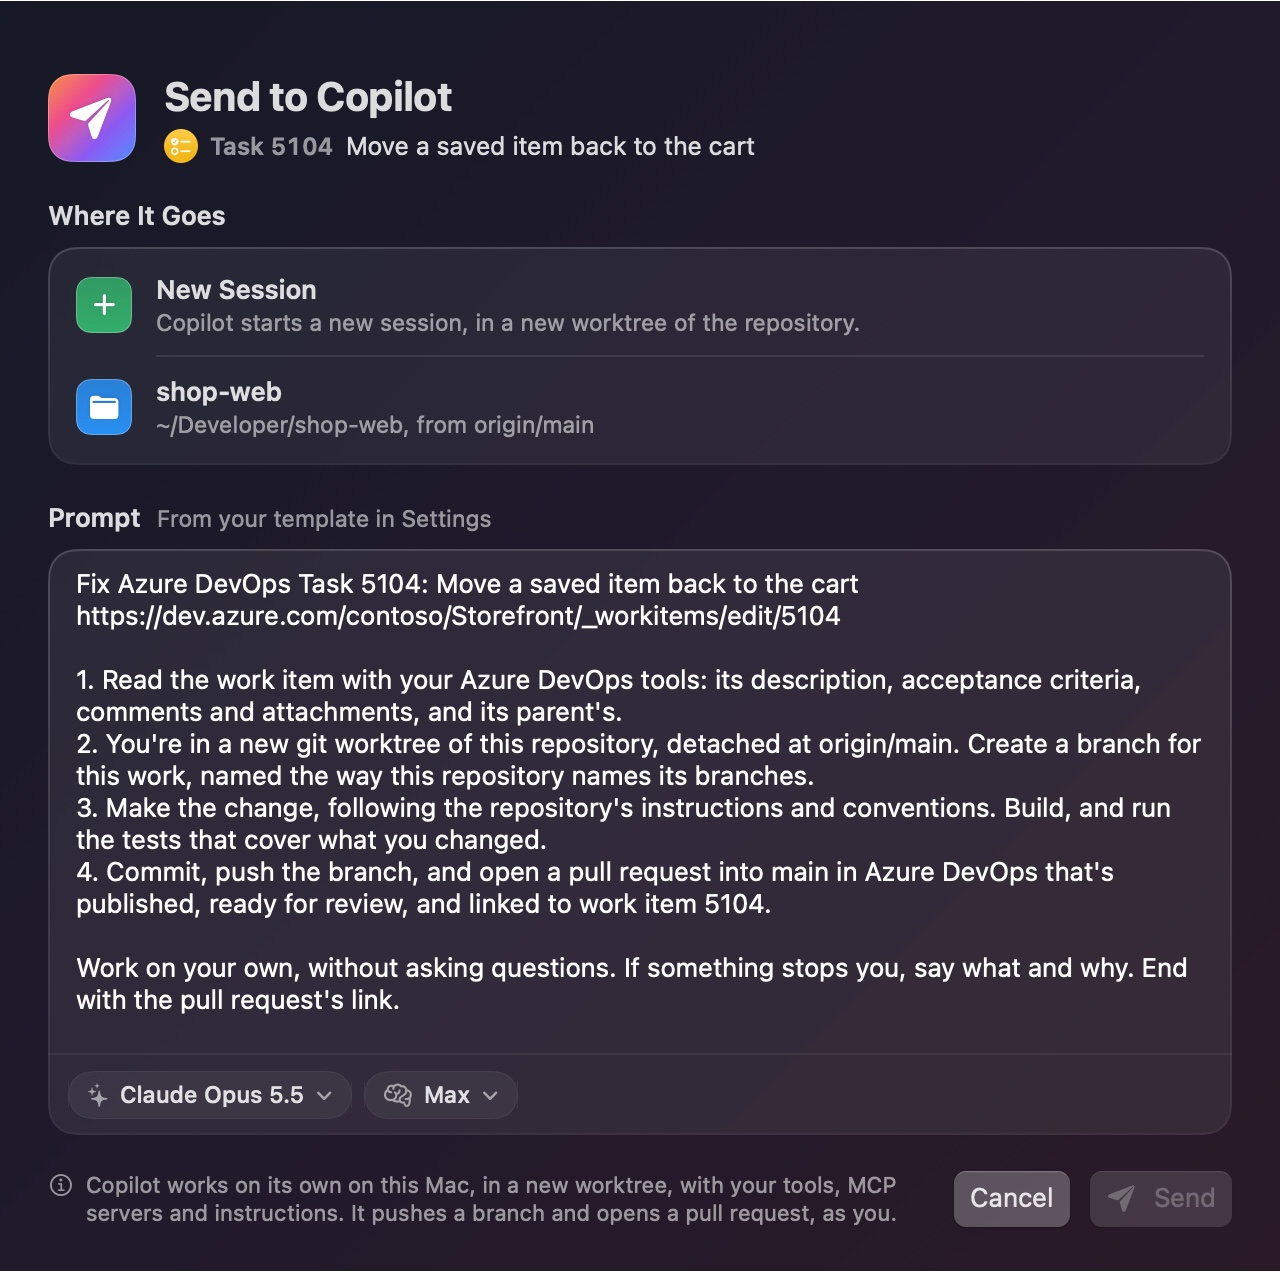
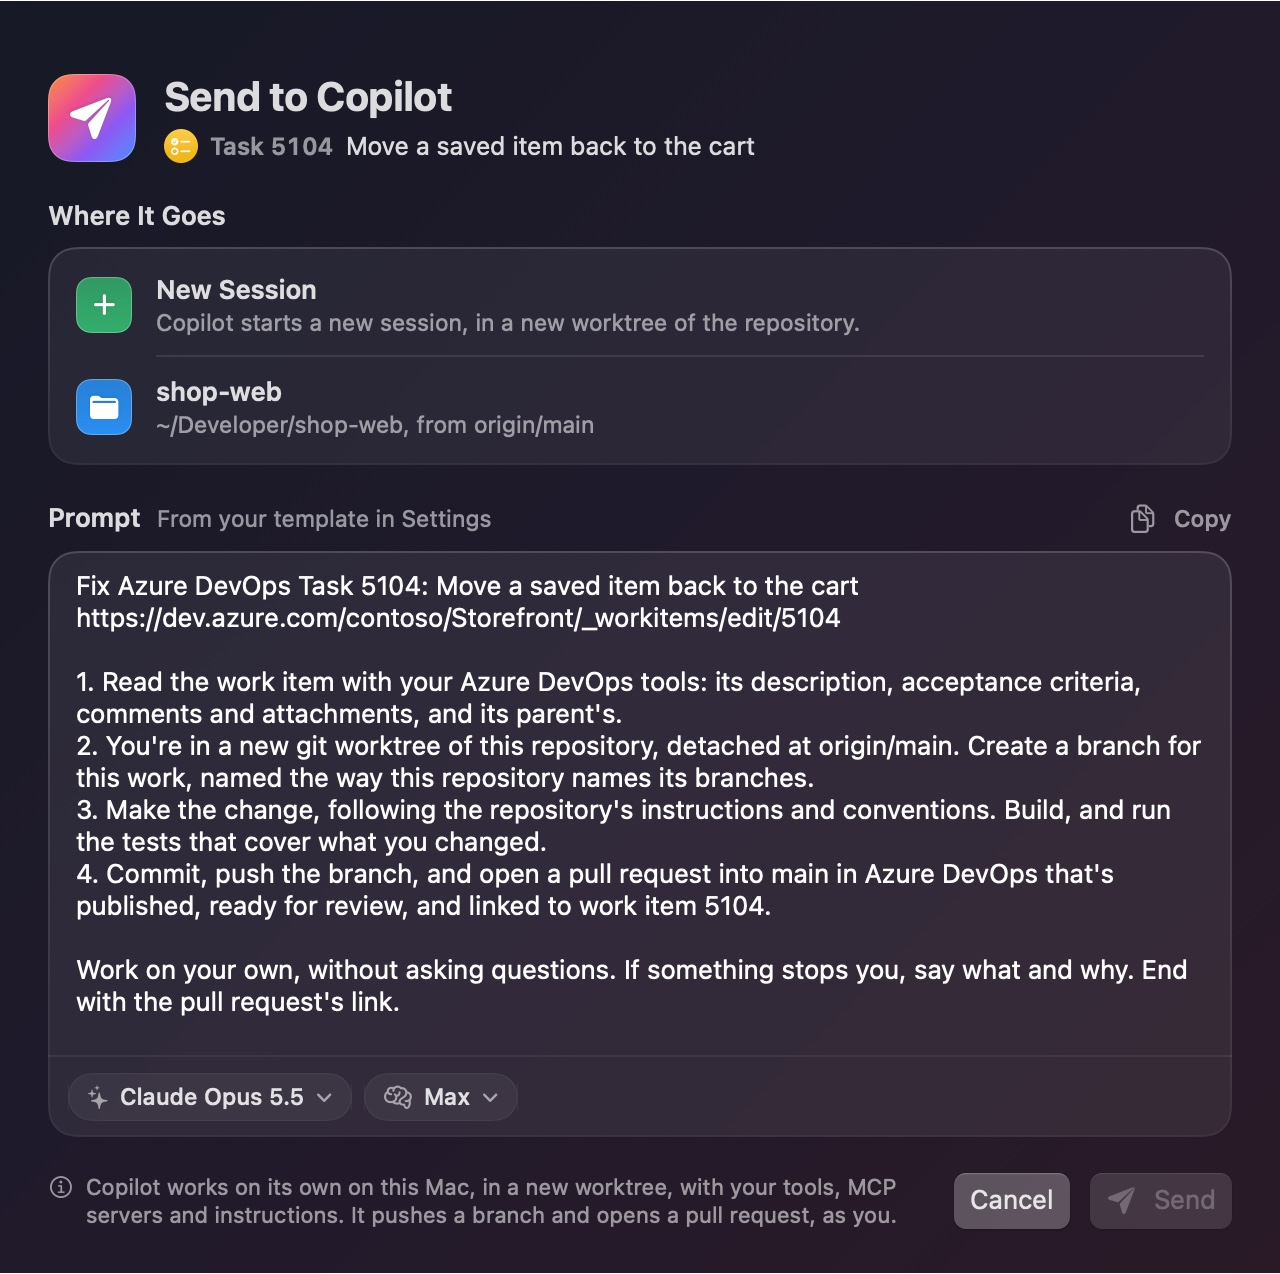
Copy the prompt from the Send to Copilot window
The window had no way to copy its prompt: only Open in Copilot put it on
the clipboard, as it opened one of the Copilot app's sessions. Copy,
above the prompt, puts it there as it stands, with your changes,
whatever's chosen under Where It Goes, and says Copied for a moment, or
until you change the prompt. It's as wide either way, and Reset appears
beside it once you change the prompt, so nothing moves.

It only copies: it sends nothing, so it works in the demo and while Send
Work to Copilot is off, and it takes none of the comments the prompt
quotes off Needs You, which stays with sending (CommentHandOff).

The README's pictures of the window, and its tour, which opens it, show
Copy.

diff --git a/Sources/AzureDevOpsUI/Views/CopilotComposerStyle.swift b/Sources/AzureDevOpsUI/Views/CopilotComposerStyle.swift
@@ -1,10 +1,11 @@
+import AppKit
 import BriefBarCore
 import BriefBarUI
 import CopilotTasks
 import SwiftUI
 
 // The pieces of the window that sends work to Copilot, in BriefBar's look: a tile of color for each thing, as the window's
-// sidebar has for its pages, rows that open a menu, choices side by side, and capsules on the prompt.
+// sidebar has for its pages, rows that open a menu, choices side by side, capsules on the prompt, and Copy above it.
 
 extension PullRequestAction {
     /// Its symbol, on the window's tile.
@@ -275,6 +276,54 @@ struct ComposerCapsuleMenu<Items: View>: View {
         .menuIndicator(.hidden)
         .fixedSize()
         .onHover { isHovered = $0 }
+    }
+}
+
+/// Copies the prompt as it stands, your changes included, and says so for a moment. It only copies, so it's there
+/// whichever session and way you choose, in the demo too: it sends nothing, and takes none of the comments the prompt
+/// quotes off Needs You.
+struct ComposerCopyButton: View {
+    let text: String
+
+    /// What it copied last, while it says so: once you change the prompt, it's Copy again.
+    @LocalState private var copied: String?
+    /// How many times it copied, so that each time says so for as long.
+    @LocalState private var copies = 0
+
+    var body: some View {
+        let isCopied = copied == text
+        Button(action: copy) {
+            // As wide either way, so Reset beside it never moves.
+            ZStack(alignment: .trailing) {
+                Label("Copied", systemImage: "checkmark")
+                    .opacity(isCopied ? 1 : 0)
+                Label("Copy", systemImage: "doc.on.doc")
+                    .opacity(isCopied ? 0 : 1)
+            }
+            .labelStyle(.titleAndIcon)
+            .animation(.easeOut(duration: 0.15), value: isCopied)
+        }
+        .buttonStyle(.borderless)
+        .font(size: 11.5, weight: .medium)
+        .disabled(text.trimmingCharacters(in: .whitespacesAndNewlines).isEmpty)
+        .help("Copy the prompt as it stands, to paste it where you like")
+        .accessibilityLabel("Copy Prompt")
+        .task(id: copies) {
+            guard copies > 0 else { return }
+            do {
+                try await Task.sleep(for: .seconds(2))
+                copied = nil
+            } catch {}
+        }
+    }
+
+    private func copy() {
+        // In place of everything there, whatever its type, so nothing you copied before is pasted instead.
+        NSPasteboard.general.clearContents()
+        NSPasteboard.general.setString(text, forType: .string)
+        copied = text
+        copies += 1
+        AccessibilityNotification.Announcement("Copied the prompt").post()
     }
 }
 

diff --git a/Sources/AzureDevOpsUI/Views/CopilotComposer.swift b/Sources/AzureDevOpsUI/Views/CopilotComposer.swift
@@ -495,7 +495,7 @@ struct CopilotComposerView: View {
 
     // MARK: The prompt
 
-    /// The prompt, which you can change, where it came from, and the model that works on it, on a card below it.
+    /// The prompt, which you can change and copy, where it came from, and the model that works on it, on a card below it.
     private var promptSection: some View {
         VStack(alignment: .leading, spacing: 8) {
             HStack(alignment: .firstTextBaseline, spacing: 8) {
@@ -518,6 +518,9 @@ struct CopilotComposerView: View {
                 .disabled(prompt == filledIn)
                 .accessibilityHidden(prompt == filledIn)
                 .help(workItem != nil && target == nil ? "Go back to the prompt in Settings" : "Go back to the prompt BriefBar wrote")
+                ComposerCopyButton(text: prompt)
+                    // A little apart from Reset, beside it once you change the prompt.
+                    .padding(.leading, 4)
             }
             VStack(spacing: 0) {
                 TextEditor(text: $prompt)

diff --git a/docs/how-it-works.md b/docs/how-it-works.md
@@ -1558,7 +1558,9 @@ the pull request's latest commit and check it out where it works, and to ask fir
 of its repository or has changes of its own; Push & Reply's checks that what it would push was made for
 the pull request. A work item's is the one in Settings for a new worktree, and BriefBar's own for a
 session that's there (`PromptTemplate.existingSession`), which checks the same way before it branches
-from the latest default branch, and commits only what it changed for the work item. A prompt you
+from the latest default branch, and commits only what it changed for the work item. **Copy**, above the
+prompt, puts it on the clipboard as it stands, with your changes, whatever the session and the way it
+goes. It sends nothing and hands nothing off (`CommentHandOff`), so it works in the demo. A prompt you
 changed stays as you wrote it when you choose another session, and **Reset** goes back to the one for
 the session you chose (`CopilotComposerView.rewritten`). There are two ways to send to a session that's
 there:

diff --git a/README.md b/README.md
@@ -127,7 +127,7 @@ Copilot instead. The app and its plain-language brief work without either AI fea
 ## Hand the next step to Copilot
 
 With **Send Work to Copilot** on in Azure DevOps' settings, send a sprint task to Copilot with its
-context already filled in. Review or edit the prompt, choose a repository and model, and follow the
+context already filled in. Review, edit or copy the prompt, choose a repository and model, and follow the
 task from running to its linked pull request. For pull requests, choose **Fix Comments**, **Fix the
 Build**, **Resolve Conflicts** or **Pre-review**, and send follow-up work to the session that opened
 the pull request instead of starting from scratch.

diff --git a/docs/user-guide.md b/docs/user-guide.md
@@ -506,6 +506,9 @@ commit only if that's safe, and to ask you first otherwise; a work item's is Bri
 the same way before it branches, rather than the one in Settings, which is for a new worktree. Once you
 choose a session or change the prompt, BriefBar doesn't change where it goes. A prompt you changed stays
 as you wrote it when you choose another session, and **Reset** goes back to the one for that session.
+**Copy**, above the prompt, puts it on the clipboard as it stands, with your changes, whatever you chose
+under **Where It Goes**, to paste where you like. It sends nothing, so the comments it quotes stay on
+**Needs You**.
 
 ### GitHub Copilot
 

diff --git a/CHANGELOG.md b/CHANGELOG.md
@@ -2,6 +2,9 @@
 
 ## Unreleased
 
+- **Copy the prompt from the Send to Copilot window.** **Copy**, above the prompt, puts it on the
+  clipboard as it stands, with your changes, whatever you choose under **Where It Goes**, to paste where
+  you like. It sends nothing, so the comments it quotes stay on **Needs You**.
 - **GitHub's list says All quiet only once it has read all your pull requests.** It said so under a note
   that you were offline, that GitHub couldn't be reached or that some pull requests couldn't be read, and
   even before it had read any. Now it shows only the note.
